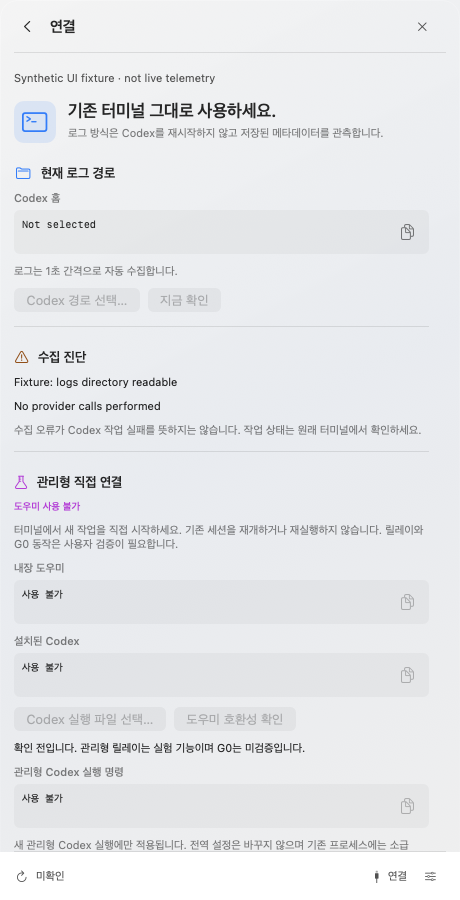
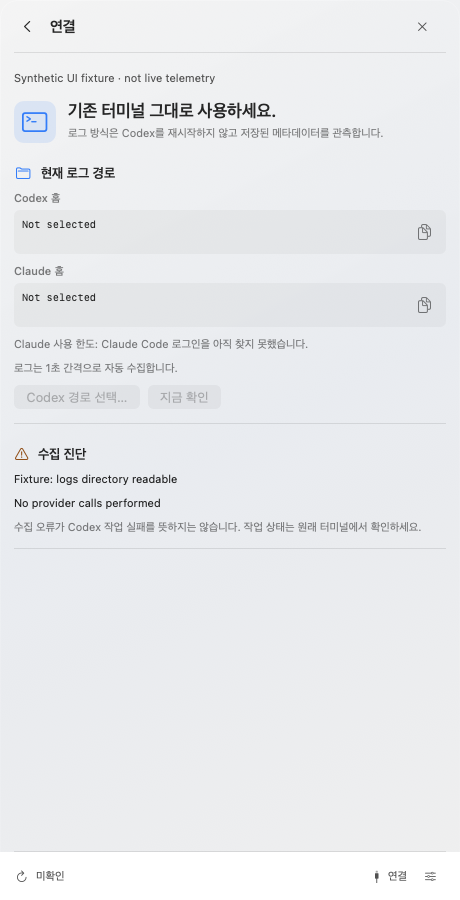
connection: show the Claude home and login state, drop the managed-run controls from the app

diff --git a/Sources/CodexHubApp/AppLanguage.swift b/Sources/CodexHubApp/AppLanguage.swift
@@ -28,6 +28,9 @@ enum AppLanguage: String, CaseIterable {
         "No server timing collected. Only new managed runs started with the command on Connection collect it; existing log connections do not.": "수집된 서버 타이밍이 없습니다. 연결 화면의 명령으로 시작한 새 관리형 실행에서만 수집합니다. 기존 로그 연결에는 적용되지 않습니다.",
         "Current log location": "현재 로그 경로",
         "Codex home": "Codex 홈",
+        "Claude home": "Claude 홈",
+        "Claude usage limits: a Claude Code login was found.": "Claude 사용 한도: Claude Code 로그인을 확인했습니다.",
+        "Claude usage limits: no Claude Code login found yet.": "Claude 사용 한도: Claude Code 로그인을 아직 찾지 못했습니다.",
         "General settings": "일반 설정",
         "Choose the app language and speed display.": "앱의 기본 동작과 표시 방식을 설정합니다.",
         "Behavior": "동작 설정",
@@ -111,7 +114,6 @@ enum AppLanguage: String, CaseIterable {
         "Server time to first token": "서버 첫 토큰 시간",
         "Raw server TBT": "서버 TBT 원본",
         "Managed Codex launch command": "관리형 Codex 실행 명령",
-        "Applies only to new managed Codex runs. Global settings and existing processes are unchanged.": "새 관리형 Codex 실행에만 적용됩니다. 전역 설정은 바꾸지 않으며 기존 프로세스에는 소급 적용되지 않습니다.",
         "Calculation": "계산 기준",
         "Output delta / report interval excluding tools": "사용량 증가량 ÷ 도구 시간을 뺀 보고 구간",
         "Login item change failed. Check System Settings → Login Items.": "로그인 항목 변경에 실패했습니다. 시스템 설정 → 로그인 항목을 확인하세요.",
@@ -208,18 +210,7 @@ enum AppLanguage: String, CaseIterable {
         "Keep your terminal.": "기존 터미널 그대로 사용하세요.",
         "Logs compatibility mode observes saved metadata without restarting Codex.": "로그 방식은 Codex를 재시작하지 않고 저장된 메타데이터를 관측합니다.",
         "Collection diagnostics": "수집 진단",
-        "Managed direct": "관리형 직접 연결",
-        "Helper unavailable": "도우미 사용 불가",
-        "Experimental · unverified": "실험 기능 · 미검증",
-        "Start a new run yourself in a terminal. Existing sessions are never resumed or replayed. Relay behavior and G0 await user QA.": "터미널에서 새 작업을 직접 시작하세요. 기존 세션을 재개하거나 재실행하지 않습니다. 릴레이와 G0 동작은 사용자 검증이 필요합니다.",
-        "Bundled helper": "내장 도우미",
-        "Installed Codex": "설치된 Codex",
-        "Choose Codex executable…": "Codex 실행 파일 선택…",
-        "Checking version…": "버전 확인 중…",
-        "Check helper compatibility": "도우미 호환성 확인",
         "Experimental terminal command": "실험 기능 실행 명령",
-        "Run from your intended project directory. Additional flags, prompts, profiles and resume commands are not supported.": "작업할 프로젝트 경로에서 실행하세요. 추가 플래그·프롬프트·프로필·재개 명령은 지원하지 않습니다.",
-        "Live estimates require a managed direct run with supported model metadata and complete visible-text observation. Unsupported models and missing evidence remain unavailable.": "실시간 추정은 지원 모델의 메타데이터와 온전한 화면 출력 관측이 있는 관리형 직접 실행이 필요합니다. 지원하지 않는 모델이나 관측이 부족한 경우 측정하지 않습니다.",
         "A collection error does not mean your Codex task failed. Check the original terminal for task status.": "수집 오류가 Codex 작업 실패를 뜻하지는 않습니다. 작업 상태는 원래 터미널에서 확인하세요.",
         "Working…": "처리 중…",
         "Copy": "복사",
@@ -243,11 +234,8 @@ enum AppLanguage: String, CaseIterable {
         "Approval required in System Settings → Login Items": "시스템 설정 → 로그인 항목에서 승인 필요",
         "App registration unavailable; keep the app in a stable location.": "앱을 등록할 수 없습니다. 앱을 고정된 경로에 두세요.",
         "Unknown registration status": "등록 상태 미확인",
-        "Not checked. Managed relay is experimental; G0 is unverified.": "확인 전입니다. 관리형 릴레이는 실험 기능이며 G0는 미검증입니다.",
-        "Choose installed Codex executable": "설치된 Codex 실행 파일 선택",
         "Choose Codex home": "Codex 경로 선택",
         "Choose the Codex home directory containing sessions. Original logs are read only.": "sessions가 포함된 Codex 경로를 선택하세요. 원본 로그는 읽기 전용입니다.",
-        "Choose an executable file.": "실행 가능한 파일을 선택하세요.",
         "Clipboard write failed.": "클립보드에 복사하지 못했습니다.",
         "Running Codex processes could not be inspected.": "실행 중인 Codex 프로세스를 확인하지 못했습니다.",
         "Logs": "로그",

diff --git a/Sources/CodexHubApp/AppDelegate.swift b/Sources/CodexHubApp/AppDelegate.swift
@@ -48,12 +48,6 @@ import CodexHubCollector
             defaults.set(model.hideIdle, forKey: "hideIdle")
             defaults.set(model.hideUnattached, forKey: "hideUnattached")
         }
-        let helper = HelperConnection.bundledURL.path
-        model.helperPath = HelperConnection.executable(helper) ? helper : nil
-        if let saved = defaults.string(forKey: "codexExecutable"), HelperConnection.executable(saved) { model.codexPath = saved }
-        else { model.codexPath = HelperConnection.discoverCodex() }
-        model.chooseCodex = { [weak self] in self?.chooseCodex() }
-        model.runDoctor = { [weak self] in self?.runDoctor() }
         model.chooseHome = { [weak self] in self?.chooseHome() }
         model.refresh = { [weak self] in self?.refresh() }
         model.clearMetadata = { [weak self] in self?.clearMetadata() }
@@ -61,36 +55,6 @@ import CodexHubCollector
         NSWorkspace.shared.notificationCenter.addObserver(self, selector: #selector(woke), name: NSWorkspace.didWakeNotification, object: nil)
         let path = defaults.string(forKey: "codexHome") ?? ProcessInfo.processInfo.environment["CODEX_HOME"] ?? FileManager.default.homeDirectoryForCurrentUser.appendingPathComponent(".codex").path
         connect(home: URL(fileURLWithPath: path))
-    }
-
-    private func chooseCodex() {
-        let panel = NSOpenPanel()
-        panel.title = model.text("Choose installed Codex executable")
-        panel.canChooseDirectories = false
-        panel.canChooseFiles = true
-        panel.allowsMultipleSelection = false
-        panel.showsHiddenFiles = true
-        guard panel.runModal() == .OK, let url = panel.url else { return }
-        guard HelperConnection.executable(url.path) else {
-            model.notice = "Choose an executable file."; return
-        }
-        model.codexPath = url.path
-        defaults.set(url.path, forKey: "codexExecutable")
-        model.doctorResult = "Not checked. Managed relay is experimental; G0 is unverified."
-    }
-
-    private func runDoctor() {
-        guard !model.doctorBusy, let helper = model.helperPath, let codex = model.codexPath else { return }
-        let home = model.codexHome
-        model.doctorBusy = true
-        Task {
-            let result = await Task.detached(priority: .userInitiated) {
-                HelperConnection.doctor(home: home, codex: codex, helper: helper)
-            }.value
-            model.doctorBusy = false
-            guard model.codexHome == home, model.codexPath == codex else { return }
-            model.doctorResult = result
-        }
     }
 
     private func chooseHome() {
@@ -125,6 +89,7 @@ import CodexHubCollector
         model.refreshedAt = nil
         let canonicalHome = home.standardizedFileURL.resolvingSymlinksInPath()
         model.codexHome = canonicalHome.path
+        model.claudeHome = ClaudeCollector.defaultHome().path
         // The usage endpoint is rate limited, so the weekly windows refresh every five minutes.
         quotaPolling = Task { [weak self] in
             while !Task.isCancelled {
@@ -135,7 +100,6 @@ import CodexHubCollector
                 do { try await Task.sleep(for: .seconds(300)) } catch { return }
             }
         }
-        model.doctorResult = "Not checked. Managed relay is experimental; G0 is unverified."
         model.busy = true
         model.checkingConnection = true
         polling = Task { [weak self] in
@@ -207,7 +171,7 @@ import CodexHubCollector
         let current = generation
         let home = model.codexHome
         let observed = await Task.detached(priority: .utility) {
-            (RunningCodexProcess.capture(), HelperConnection.configuredServiceTier(home: home))
+            (RunningCodexProcess.capture(), CodexConfig.configuredServiceTier(home: home))
         }.value
         guard generation == current else { return }
         model.configuredServiceTier = observed.1

diff --git a/Tests/CodexHubAppTests/FixtureHarness.swift b/Tests/CodexHubAppTests/FixtureHarness.swift
@@ -46,11 +46,11 @@ import CodexHubCollector
         precondition(SessionPresentation.tokens(999) == "999" && SessionPresentation.tokens(1_000) == "1K", "UI26 small token count boundary")
         precondition(SessionPresentation.tokens(115_911) == "115.9K" && SessionPresentation.tokens(39_568_473) == "39.6M", "UI27 K/M token formatting")
         precondition(SessionPresentation.tokens(1_250_000_000) == "1.3G", "UI28 G token formatting")
-        precondition(HelperConnection.configuredServiceTier(in: "service_tier = \"fast\" # default") == .fast, "UI29 home default tier parsing")
-        precondition(HelperConnection.configuredServiceTier(in: "[profiles.quick]\nservice_tier = \"ultrafast\"") == nil, "UI30 profile tier is not a global default")
-        precondition(HelperConnection.configuredServiceTier(in: "service_tier = \"fast\"\nservice_tier = \"ultrafast\"") == nil, "UI31 conflicting defaults stay unconfirmed")
-        precondition(HelperConnection.configuredServiceTier(in: "instructions = \"\"\"\nservice_tier = \"fast\"") == nil, "UI32 multiline content cannot masquerade as a default")
-        precondition(HelperConnection.configuredServiceTier(in: "service_tier = \"future-tier\"") == nil, "UI33 unknown tier stays unconfirmed")
+        precondition(CodexConfig.configuredServiceTier(in: "service_tier = \"fast\" # default") == .fast, "UI29 home default tier parsing")
+        precondition(CodexConfig.configuredServiceTier(in: "[profiles.quick]\nservice_tier = \"ultrafast\"") == nil, "UI30 profile tier is not a global default")
+        precondition(CodexConfig.configuredServiceTier(in: "service_tier = \"fast\"\nservice_tier = \"ultrafast\"") == nil, "UI31 conflicting defaults stay unconfirmed")
+        precondition(CodexConfig.configuredServiceTier(in: "instructions = \"\"\"\nservice_tier = \"fast\"") == nil, "UI32 multiline content cannot masquerade as a default")
+        precondition(CodexConfig.configuredServiceTier(in: "service_tier = \"future-tier\"") == nil, "UI33 unknown tier stays unconfirmed")
         precondition(ServiceTier.priority.displayName == "Fast" && ServiceTier.ultrafast.displayName == "Ultrafast", "UI34 speed tiers preserve the official mapping")
         model.configuredServiceTier = .fast
 
@@ -150,7 +150,6 @@ import CodexHubCollector
         try capture(model, "preferences-korean", output, dark: false)
         try set([a,b], verified: [a.key,b.key])
         precondition(model.aggregateRate != nil, "UI43 the single estimate keeps working")
-        precondition(!HelperConnection.command(home: "/tmp/home", codex: "/tmp/codex", helper: "/tmp/helper").contains("--server-timing"), "UI44 app launch commands do not enable server timing")
         model.page = .overview
         try capture(model, "server-unavailable", output, dark: false)
         model.page = .detail(model.sessions[0].id)

diff --git a/Sources/CodexHubApp/HubView.swift b/Sources/CodexHubApp/HubView.swift
@@ -383,6 +383,8 @@ struct HubView: View {
             }
             connectionSection("Current log location", icon: "folder", tint: .blue) {
                 copyValue("Codex home", model.codexHome)
+                copyValue("Claude home", model.claudeHome)
+                connectionNote(model.quotas.contains { $0.provider == .claude } ? "Claude usage limits: a Claude Code login was found." : "Claude usage limits: no Claude Code login found yet.")
                 connectionNote("로그는 1초 간격으로 자동 수집합니다.")
                 HStack {
                     Button(model.text("Codex 경로 선택…")) { model.chooseHome?() }.disabled(model.chooseHome == nil || model.busy)
@@ -397,23 +399,6 @@ struct HubView: View {
                     }
                     connectionNote("A collection error does not mean your Codex task failed. Check the original terminal for task status.")
                 }
-            }
-            connectionSection("Managed direct", icon: "flask", tint: .purple) {
-                Text(model.text(model.helperPath == nil ? "Helper unavailable" : "Experimental · unverified"))
-                    .font(.system(size: 10, weight: .medium)).foregroundStyle(.purple)
-                connectionNote("Start a new run yourself in a terminal. Existing sessions are never resumed or replayed. Relay behavior and G0 await user QA.")
-                copyValue("Bundled helper", model.helperPath)
-                copyValue("Installed Codex", model.codexPath)
-                HStack {
-                    Button(model.text("Choose Codex executable…")) { model.chooseCodex?() }.disabled(model.chooseCodex == nil || model.doctorBusy)
-                    Button(model.text(model.doctorBusy ? "Checking version…" : "Check helper compatibility")) { model.runDoctor?() }
-                        .disabled(model.runDoctor == nil || model.helperPath == nil || model.codexPath == nil || model.doctorBusy)
-                }
-                if !model.doctorResult.isEmpty { Text(model.text(model.doctorResult)).font(.system(size: 11)).textSelection(.enabled) }
-                copyValue("관리형 Codex 실행 명령", model.managedCommand)
-                connectionNote("새 관리형 Codex 실행에만 적용됩니다. 전역 설정은 바꾸지 않으며 기존 프로세스에는 소급 적용되지 않습니다.")
-                connectionNote("Run from your intended project directory. Additional flags, prompts, profiles and resume commands are not supported.")
-                connectionNote("Live estimates require a managed direct run with supported model metadata and complete visible-text observation. Unsupported models and missing evidence remain unavailable.")
             }
         }.buttonStyle(.bordered).controlSize(.regular)
     }

diff --git a/Sources/CodexHubApp/CodexConfig.swift b/Sources/CodexHubApp/CodexConfig.swift
@@ -1,0 +1,46 @@
+import Foundation
+import Darwin
+import CodexHubCore
+
+/// Reads the default speed setting from the Codex home's configuration; nothing is written.
+enum CodexConfig {
+    static func configuredServiceTier(home: String) -> ServiceTier? {
+        let path = URL(fileURLWithPath: home).appendingPathComponent("config.toml").path
+        let fd = open(path, O_RDONLY | O_NOFOLLOW | O_CLOEXEC)
+        guard fd >= 0 else { return nil }
+        defer { close(fd) }
+        var before = stat()
+        guard fstat(fd, &before) == 0, before.st_uid == getuid(), before.st_mode & S_IFMT == S_IFREG,
+              before.st_size >= 0, before.st_size <= 262_144 else { return nil }
+        var bytes = [UInt8](repeating: 0, count: Int(before.st_size))
+        guard pread(fd, &bytes, bytes.count, 0) == bytes.count else { return nil }
+        var after = stat()
+        guard fstat(fd, &after) == 0, after.st_size == before.st_size,
+              after.st_mtimespec.tv_sec == before.st_mtimespec.tv_sec,
+              after.st_mtimespec.tv_nsec == before.st_mtimespec.tv_nsec,
+              let text = String(bytes: bytes, encoding: .utf8) else { return nil }
+        return configuredServiceTier(in: text)
+    }
+
+    // Read only the simple home-level default; profiles/CLI overrides are not session evidence.
+    static func configuredServiceTier(in text: String) -> ServiceTier? {
+        var result: ServiceTier?
+        for raw in text.split(separator: "\n") {
+            let line = raw.trimmingCharacters(in: .whitespacesAndNewlines)
+            if line.isEmpty || line.hasPrefix("#") { continue }
+            if line.hasPrefix("[") { break }
+            if line.contains("\"\"\"") || line.contains("'" + "''") { return nil }
+            let pair = line.split(separator: "=", maxSplits: 1)
+            guard pair.first?.trimmingCharacters(in: .whitespaces) == "service_tier" else { continue }
+            guard result == nil, pair.count == 2 else { return nil }
+            let value = pair[1].trimmingCharacters(in: .whitespaces)
+            guard let quote = value.first, quote == "\"" || quote == "'",
+                  let end = value.dropFirst().firstIndex(of: quote),
+                  let tier = ServiceTier(rawValue: String(value[value.index(after: value.startIndex)..<end])) else { return nil }
+            let rest = value[value.index(after: end)...].trimmingCharacters(in: .whitespaces)
+            guard rest.isEmpty || rest.hasPrefix("#") else { return nil }
+            result = tier
+        }
+        return result
+    }
+}

diff --git a/Sources/CodexHubApp/Presentation.swift b/Sources/CodexHubApp/Presentation.swift
@@ -170,18 +170,9 @@ enum MenuWindows: String, CaseIterable {
     var confirmClear = false
     var busy = false
     var checkingConnection = false
-    var helperPath: String?
-    var codexPath: String?
-    var chooseCodex: (() -> Void)?
-    var runDoctor: (() -> Void)?
-    var doctorBusy = false
-    var doctorResult = "Not checked. Managed relay is experimental; G0 is unverified."
-    var managedCommand: String? {
-        guard let helperPath, let codexPath else { return nil }
-        return HelperConnection.command(home: codexHome, codex: codexPath, helper: helperPath)
-    }
-    var chooseHome: (() -> Void)?
     var codexHome = "Not selected"
+    var claudeHome = "Not selected"
+    var chooseHome: (() -> Void)?
     var refresh: (() -> Void)?
     var clearMetadata: (() -> Void)?
     var updateRetention: ((Int) -> Void)?

diff --git a/README.md b/README.md
@@ -45,7 +45,7 @@ Tokloom is a native menu bar monitor for developers using Codex or Claude Code. 
   <tr>
     <td width="50%" align="center" valign="top">
       <h3>03 · Keep your terminal</h3>
-      <p>Inspect log paths and collection diagnostics.<br />Use managed connections only when needed.</p>
+      <p>Inspect the Codex and Claude Code log paths and collection diagnostics.<br />Codex and Claude Code, side by side.</p>
       <a href="docs/images/connection-en.png"><img src="docs/images/connection-en.png" alt="Tokloom connection page with log location and diagnostics" width="340" /></a>
     </td>
     <td width="50%" align="center" valign="top">
@@ -148,7 +148,7 @@ Clearing collected metadata also clears chart history. Original Codex logs remai
 
 **Settings** provides language, display unit, what the menu bar shows (speed: combined, by provider, both or hidden; remaining usage: Codex, Claude, both or hidden; the 5-hour window, the weekly window or both; optionally the time until reset), hide-idle behavior, start at login, metadata retention/deletion, and quit. Login startup changes only when the user toggles it.
 
-**Connection** provides log-path selection/copying, an immediate connection check, collection diagnostics, and experimental managed-run instructions. Paths and commands have individual copy buttons.
+**Connection** provides log-path selection/copying, an immediate connection check, the Claude Code home with whether a Claude Code login was found, and collection diagnostics. Paths have individual copy buttons.
 
 On macOS 26+, supported buttons use native Glass styling. Older systems use bordered controls; Reduce Transparency uses an opaque system background. Right-click the menu bar item to open or quit the app.
 
@@ -158,9 +158,9 @@ Earlier versions could install optional Codex hooks. They are gone: Tokloom read
 
 ## Experimental managed runs
 
-Select the installed Codex executable in Connection and check helper compatibility. This is a time-bounded version check, not proof of TUI, approval, or provider compatibility. Tokloom never automatically launches Codex.
+The app no longer shows managed-run controls. The helper is still bundled and can be run from a terminal; it never launches Codex automatically and its version check is not proof of TUI, approval, or provider compatibility.
 
-Copy the command from Connection, or adjust these paths, then run it from your intended project directory:
+Adjust these paths, then run it from your intended project directory:
 
 ```sh
 '/path/to/Tokloom.app/Contents/Helpers/codex-hub' doctor --codex '/absolute/path/to/codex'
